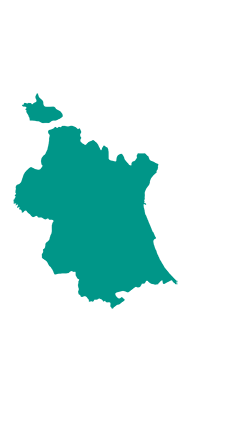
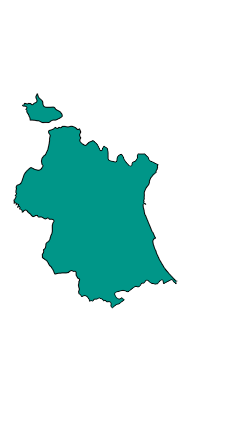
Map borders and label binding

diff --git a/src/electionresults/DashboardController.java b/src/electionresults/DashboardController.java
@@ -14,6 +14,7 @@ import javafx.fxml.FXML;
 import javafx.fxml.FXMLLoader;
 import javafx.scene.chart.BarChart;
 import javafx.scene.chart.PieChart;
+import javafx.scene.control.Label;
 import javafx.scene.control.TableColumn;
 import javafx.scene.control.TableView;
 import javafx.scene.control.cell.PropertyValueFactory;
@@ -68,6 +69,8 @@ public class DashboardController extends HBox {
     private int counter1 = 0;
     private int counter2 = 0;
     private int counter3 = 0;
+    @FXML
+    private Label mapLabel;
 
     public DashboardController(int datos) {
         aux = datos;
@@ -101,15 +104,19 @@ public class DashboardController extends HBox {
         if (s.equals("Comunidad")) {
             regionBox.getItems().clear();
             regionBox.getItems().addAll(d.getComunidad());
+            mapLabel.setText("Comunidad Valenciana");
         } else if (s.equals("Valencia")) {
             regionBox.getItems().clear();
             regionBox.getItems().addAll(d.getValencia());
+            mapLabel.setText("Valencia");
         } else if (s.equals("Castellon")) {
             regionBox.getItems().clear();
             regionBox.getItems().addAll(d.getCastellon());
+            mapLabel.setText("Castellón");
         } else {
             regionBox.getItems().clear();
             regionBox.getItems().addAll(d.getAlicante());
+            mapLabel.setText("Alicante");
         }
     }
 
@@ -147,12 +154,13 @@ public class DashboardController extends HBox {
             ImageView temp = (ImageView) region3Layer.getChildren().get(0);
             if (counter1 == 1) {
                 regionSetter("Comunidad");
-
+                pie.setData(d.getPieData(d.getResultadosGlobales()));
                 region1Layer.getChildren().clear();
                 region1Layer.getChildren().add(region1ImageView);
                 counter1--;
             } else {
                 regionSetter("Castellon");
+                pie.setData(d.getPieData(d.getResultadosCastellon()));
                 region1Layer.getChildren().clear();
                 region1Layer.getChildren().add(region1sImageView);
                 if (counter2 == 1) {
@@ -172,11 +180,13 @@ public class DashboardController extends HBox {
             ImageView temp = (ImageView) region3Layer.getChildren().get(0);
             if (counter2 == 1) {
                 regionSetter("Comunidad");
+                pie.setData(d.getPieData(d.getResultadosGlobales()));
                 region2Layer.getChildren().clear();
                 region2Layer.getChildren().add(region2ImageView);
                 counter2--;
             } else {
                 regionSetter("Valencia");
+                pie.setData(d.getPieData(d.getResultadosValencia()));
                 region2Layer.getChildren().clear();
                 region2Layer.getChildren().add(region2sImageView);
                 if (counter1 == 1) {
@@ -197,11 +207,13 @@ public class DashboardController extends HBox {
             ImageView temp = (ImageView) region3Layer.getChildren().get(0);
             if (counter3 == 1) {
                 regionSetter("Comunidad");
+                pie.setData(d.getPieData(d.getResultadosGlobales()));
                 region3Layer.getChildren().clear();
                 region3Layer.getChildren().add(region3ImageView);
                 counter3--;
             } else {
                 regionSetter("Alicante");
+                pie.setData(d.getPieData(d.getResultadosAlicante()));
                 region3Layer.getChildren().clear();
                 region3Layer.getChildren().add(region3sImageView);
                 if (counter2 == 1) {
